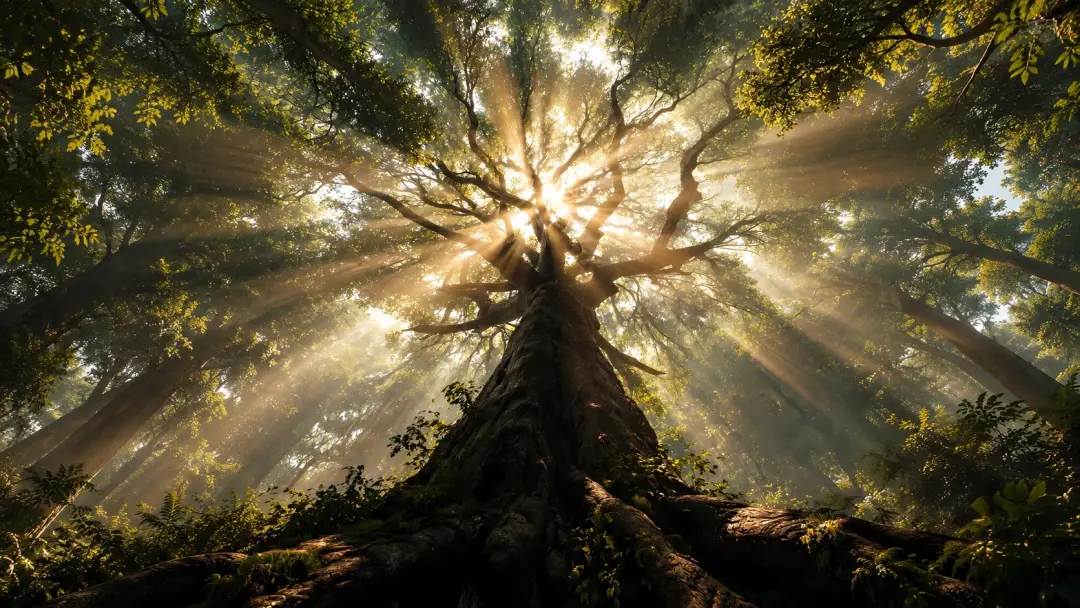
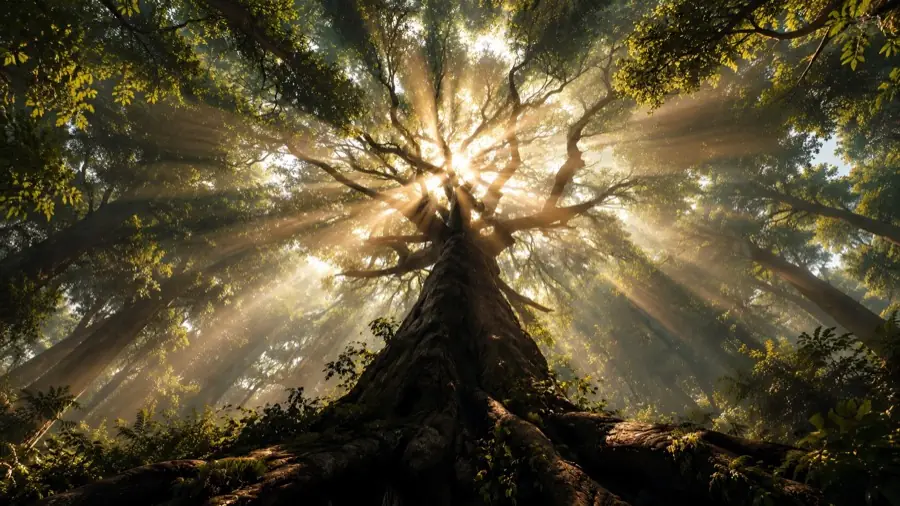
perf(images+analytics): WebP pour toutes les cartes services/formules (-2.7MB), hero allégé, gtag/Clarity différés hors chemin critique, preload poppins-500

diff --git a/index.html b/index.html
@@ -1,13 +1,41 @@
 <!DOCTYPE html>
 <html lang="fr" class="scroll-smooth">
   <head>
-    <!-- Google tag (gtag.js) -->
-    <script async src="https://www.googletagmanager.com/gtag/js?id=G-18M80J3523"></script>
+    <!-- Analytics (Google tag + Clarity) : files d'attente définies tout de suite, bibliothèques distantes chargées après le rendu -->
     <script>
+      // Google tag (gtag.js) — stub + configuration mis en file d'attente
       window.dataLayer = window.dataLayer || [];
-      function gtag(){dataLayer.push(arguments);}
+      window.gtag = function () { dataLayer.push(arguments); };
       gtag('js', new Date());
       gtag('config', 'G-18M80J3523');
+
+      // Microsoft Clarity — stub mis en file d'attente
+      window.clarity = window.clarity || function () {
+        (window.clarity.q = window.clarity.q || []).push(arguments);
+      };
+
+      // Les scripts distants ne sont chargés qu'après le rendu : interaction utilisateur ou 4 s après le load
+      (function () {
+        var loaded = false;
+        function loadAnalytics() {
+          if (loaded) return;
+          loaded = true;
+          var g = document.createElement('script');
+          g.async = true;
+          g.src = 'https://www.googletagmanager.com/gtag/js?id=G-18M80J3523';
+          document.head.appendChild(g);
+          var c = document.createElement('script');
+          c.async = true;
+          c.src = 'https://www.clarity.ms/tag/yw1fqwyc08?ref=bwt';
+          document.head.appendChild(c);
+        }
+        ['pointerdown', 'touchstart', 'keydown', 'wheel', 'scroll'].forEach(function (ev) {
+          window.addEventListener(ev, loadAnalytics, { once: true, passive: true });
+        });
+        function schedule() { setTimeout(loadAnalytics, 4000); }
+        if (document.readyState === 'complete') { schedule(); }
+        else { window.addEventListener('load', schedule, { once: true }); }
+      })();
     </script>
 
     <meta charset="UTF-8" />
@@ -42,12 +70,12 @@
 
     <!-- Fonts (auto-hébergées) -->
     <link rel="preload" href="/fonts/poppins-400.woff2" as="font" type="font/woff2" crossorigin>
+    <link rel="preload" href="/fonts/poppins-500.woff2" as="font" type="font/woff2" crossorigin>
     <link rel="preload" href="/fonts/poppins-600.woff2" as="font" type="font/woff2" crossorigin>
     <link rel="preload" href="/fonts/poppins-700.woff2" as="font" type="font/woff2" crossorigin>
     <link rel="preload" href="/fonts/viga-400.woff2" as="font" type="font/woff2" crossorigin>
 
     <!-- External Services : Elfsight (avis Google) chargé à la demande, jamais au chargement initial -->
-    <link rel="preconnect" href="https://elfsightcdn.com">
     <link rel="dns-prefetch" href="https://universe-static.elfsightcdn.com">
     <script>
       (function () {
@@ -106,15 +134,6 @@
           init();
         }
       })();
-    </script>
-
-    <!-- Clarity tracking code for https://tourma-line.fr/ -->
-    <script>
-      (function(c,l,a,r,i,t,y){
-        c[a]=c[a]||function(){(c[a].q=c[a].q||[]).push(arguments)};
-        t=l.createElement(r);t.async=1;t.src="https://www.clarity.ms/tag/"+i+"?ref=bwt";
-        y=l.getElementsByTagName(r)[0];y.parentNode.insertBefore(t,y);
-      })(window, document, "clarity", "script", "yw1fqwyc08");
     </script>
 
     <!-- Entity graph: one consistent business/person/website identity -->

diff --git a/src/data/consultations.ts b/src/data/consultations.ts
@@ -31,7 +31,7 @@ export const consultations: Consultation[] = [
       "Une approche qui relie structure et intuition pour vous aider à mieux comprendre ce que vous traversez et à avancer plus sereinement.",
     duration: "1h30 à 1h45",
     price: "70 €",
-    imageUrl: "/images/services/numerology.jpg",
+    imageUrl: "/images/services/numerology.webp",
     location: "À distance / Cabinet",
     type: "Guidance",
   },
@@ -48,7 +48,7 @@ export const consultations: Consultation[] = [
       "Cette séance permet d'ajuster votre direction et de mieux comprendre les événements en cours, sans refaire l'étude complète du chemin de vie.",
     duration: "1h à 1h15",
     price: "60 €",
-    imageUrl: "/images/services/suivi_annee.jpg",
+    imageUrl: "/images/services/suivi_annee.webp",
     location: "À distance / Cabinet",
     type: "Guidance",
   },
@@ -62,7 +62,7 @@ export const consultations: Consultation[] = [
     duration: "Envoi sous quelques jours",
     price: "30 €",
     isRemote: true,
-    imageUrl: "/images/services/cartomancy.jpg",
+    imageUrl: "/images/services/cartomancy.webp",
     location: "À distance",
     type: "Guidance",
   },
@@ -81,7 +81,7 @@ export const consultations: Consultation[] = [
     footerNote: "Idéal pour retrouver vitalité et sérénité.",
     duration: "45 min à 1h",
     price: "60 €",
-    imageUrl: "/images/services/lahochi.jpg",
+    imageUrl: "/images/services/lahochi.webp",
     location: "À distance / Cabinet",
     type: "Soin Énergétique",
   },
@@ -102,7 +102,7 @@ export const consultations: Consultation[] = [
       "Le Lahochi animalier est une pratique de bien-être complémentaire. Il ne remplace pas un vétérinaire, ne permet pas d'établir un diagnostic et ne doit jamais conduire à interrompre ou modifier un traitement vétérinaire.",
     duration: "Selon le rythme de l'animal",
     price: "45 € à distance · 55 € à domicile",
-    imageUrl: "/images/services/lahochi-compagnon.jpg",
+    imageUrl: "/images/services/lahochi-compagnon.webp",
     location: "À distance / Domicile local",
     type: "Soin Énergétique",
   },
@@ -121,7 +121,7 @@ export const consultations: Consultation[] = [
       "Une formule pensée pour accompagner votre compagnon sur plusieurs étapes, toujours dans le respect de son rythme.",
     duration: "3 séances",
     price: "115 €",
-    imageUrl: "/images/services/pack-compagnon-serenite.jpg",
+    imageUrl: "/images/services/pack-compagnon-serenite.webp",
     location: "À distance",
     type: "Soin Énergétique",
   },
@@ -141,7 +141,7 @@ export const consultations: Consultation[] = [
       "Cette démarche est énergétique et symbolique. Elle ne modifie pas les propriétés physiques, chimiques ou médicales de l'objet concerné.",
     duration: "Sur photo",
     price: "À partir de 25 €",
-    imageUrl: "/images/services/harmonisation-objets.jpg",
+    imageUrl: "/images/services/harmonisation-objets.webp",
     location: "À distance",
     type: "Soin Énergétique",
   },

diff --git a/src/data/services.ts b/src/data/services.ts
@@ -28,7 +28,7 @@ export const services: Record<string, Service> = {
       "La numérologie est une science ancienne qui étudie l'impact des nombres sur notre existence. À travers l'analyse de votre date de naissance, elle révèle des aspects essentiels de votre personnalité, de vos talents cachés, ainsi que les défis auxquels vous êtes confronté dans votre vie.\n\nChaque consultation vous permet de mieux comprendre vos choix, vos relations et les événements marquants de votre vie, afin de prendre des décisions éclairées et d'aligner votre vie avec votre véritable mission.",
     calendlyButtonText: "Réserver une consultation de numérologie",
     calendlyUrl: "https://cal.com/tourma-line",
-    imageUrl: "/images/services/numerology.jpg",
+    imageUrl: "/images/services/numerology.webp",
     imageAlt: "Consultation de numérologie avec Line chez Tourma-Line",
   },
   cartomancy: {
@@ -40,7 +40,7 @@ export const services: Record<string, Service> = {
       "La cartomancie est l'art de lire et d'interpréter les cartes pour obtenir des réponses aux questions que vous vous posez.\n\nQue ce soit pour éclairer vos choix professionnels, amoureux ou personnels, la cartomancie offre des conseils pratiques et des prévisions sur votre avenir. J'utilise des jeux de cartes traditionnels ou des oracles pour explorer les énergies présentes et vous guider vers des solutions adaptées à votre situation.",
     calendlyButtonText: "Réserver une séance de cartomancie",
     calendlyUrl: "https://cal.com/tourma-line",
-    imageUrl: "/images/services/cartomancy.jpg",
+    imageUrl: "/images/services/cartomancy.webp",
     imageAlt: "Séance de cartomancie avec Line chez Tourma-Line",
   },
   lahochi: {
@@ -79,7 +79,7 @@ export const services: Record<string, Service> = {
     ],
     calendlyButtonText: "Réserver un soin LAHOCHI",
     calendlyUrl: "https://cal.com/tourma-line",
-    imageUrl: "/images/services/lahochi.jpg",
+    imageUrl: "/images/services/lahochi.webp",
     imageAlt: "Séance Lahochi avec Line chez Tourma-Line",
   },
 };

diff --git a/src/data/formules.ts b/src/data/formules.ts
@@ -29,7 +29,7 @@ export const formules: Formule[] = [
     ],
     duration: 'environ 1 mois',
     price: '120€',
-    imageUrl: '/images/formules/harmonie-interieure.jpg',
+    imageUrl: '/images/formules/harmonie-interieure.webp',
     imageAlt: 'Illustration de la formule Harmonie Intérieure'
   },
   {
@@ -47,7 +47,7 @@ export const formules: Formule[] = [
     duration: '3 mois',
     price: '280€',
     priceNote: 'Payable en 2 fois',
-    imageUrl: '/images/formules/renaissance.jpg',
+    imageUrl: '/images/formules/renaissance.webp',
     imageAlt: 'Illustration de la formule Renaissance'
   },
   {
@@ -63,7 +63,7 @@ export const formules: Formule[] = [
     ],
     duration: 'À définir selon besoins',
     price: '150€',
-    imageUrl: '/images/formules/lahochi.jpg',
+    imageUrl: '/images/formules/lahochi.webp',
     imageAlt: 'Illustration de la formule Soin Lahochi'
   }
 ];
